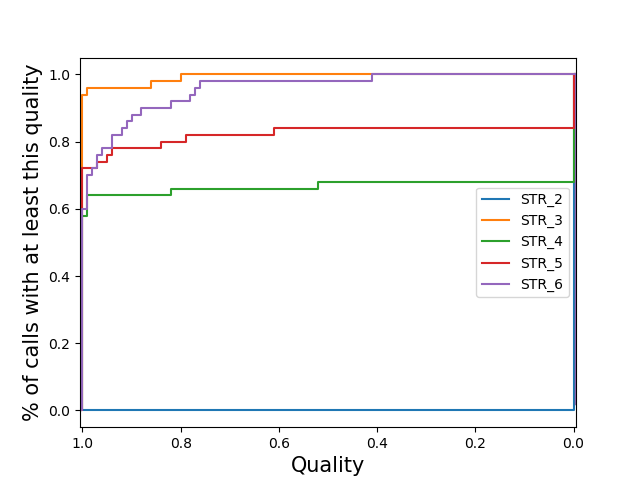
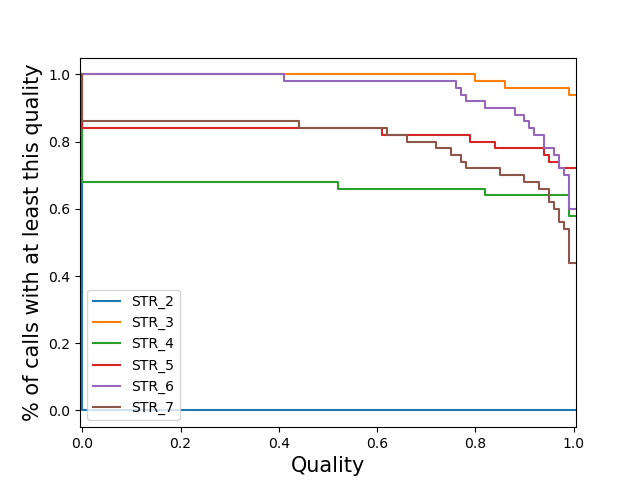
Change qcSTR from 1-0 increasing CDF to 0-1 decreasing CDF. Make printing flush appropriately so that its actually useful

diff --git a/trtools/qcSTR/qcSTR.py b/trtools/qcSTR/qcSTR.py
@@ -173,15 +173,40 @@ def OutputChromCallrate(chrom_calls, fname):
     plt.close()
 
 
-# from https://stackoverflow.com/a/39729964/2966505
-def _BetterReverseCDF(data: List[float],
-                      ax: matplotlib.axes.Axes):
-    # assumes that axes are already set to (max, min)
-    data = np.sort(data)[::-1]
-    x_axis_max, x_axis_min = ax.get_xlim()
-    data = np.hstack(([x_axis_max], data, [x_axis_min]))
-    ys = (np.hstack((np.arange(0, len(data) - 1), [1])) /
-          np.float(len(data) - 2))
+# original idea https://stackoverflow.com/a/39729964/2966505
+def _BetterCDF(data: List[float],
+               ax: matplotlib.axes.Axes):
+    # assumes that axes are already set to (min, max)
+    data = np.sort(data)
+    x_axis_min, x_axis_max = ax.get_xlim()
+    n_points = len(data)
+    has_quality_1_point = data[-1] == 1
+    if has_quality_1_point:
+        # don't print a drop off if the last data point(s)
+        # have quality 1
+        n_ones = sum(data == data[-1])
+        data = np.hstack((
+            [x_axis_min],
+            data[0:(len(data) - n_ones)],
+            [x_axis_max]
+        ))
+        ys = np.hstack((
+            [1],
+            np.arange(n_points - 1, n_ones - 1, -1) / np.float(n_points),
+            [n_ones / np.float(n_points)]
+        ))
+    else:
+        data = np.hstack((
+            [x_axis_min],
+            data,
+            [x_axis_max]
+        ))
+        ys = np.hstack((
+            [1],
+            np.arange(n_points - 1, -1, -1) / np.float(n_points),
+            [0]
+        ))
+    #ax.step(data, ys)#, where='post')
     ax.step(data, ys, where='post')
 
 
@@ -189,22 +214,24 @@ def _OutputQualityHist(
         data: Union[List[float], Dict[str, List[float]]],
         fname: str,
         dist_name: str):
+    #data is a List[float] if there is no stratification,
+    #Dict[str, List[float]] with startification
     spacing = 5e-3
     fig = plt.figure()
     ax = fig.add_subplot(111)
     if isinstance(data, list):
-        ax.set_xlim(max(data) + spacing, min(data) - spacing)
-        _BetterReverseCDF(data, ax)
+        ax.set_xlim(min(data) - spacing, max(data) + spacing)
+        _BetterCDF(data, ax)
     else: # assume dict
         max_val = 0.0
         min_val = 1.0
         for dist in data.values():
             max_val = max(max_val, max(dist))
             min_val = min(min_val, min(dist))
-        ax.set_xlim(max_val + spacing, min_val - spacing)
+        ax.set_xlim(min_val - spacing, max_val + spacing)
         names = []
         for name, dist in data.items():
-            _BetterReverseCDF(dist, ax)
+            _BetterCDF(dist, ax)
             names.append(name)
         ax.legend(names)
     ax.set_xlabel("Quality", size=15)
@@ -278,7 +305,7 @@ def OutputQualityLocusStrat(
 
     Parameters
     ----------
-    locus_strat_data: 
+    locus_strat_data:
         dict from locus ID to a list of the qualities of the calls for that
         locus.
     fname :
@@ -518,74 +545,90 @@ def main(args):
 
         numrecords += 1
 
-    print("Producing " + args.out + "-diffref-bias.pdf ... ", end='')
-    OutputDiffRefBias(diffs_from_ref, reflens, args.out + "-diffref-bias.pdf", \
+    print("Producing " + args.out + "-diffref-bias.png ... ", end='',
+          flush=True)
+    OutputDiffRefBias(diffs_from_ref, reflens, args.out + "-diffref-bias.png", \
                       xlim=(args.refbias_xrange_min, args.refbias_xrange_max), \
                       mingts=args.refbias_mingts, metric=args.refbias_metric, \
                       binsize=args.refbias_binsize)
     if len(samplelist) > 1:
-        print("Done.\nProducing " + args.out + "-sample-callnum.pdf ... ",
-              end='')
-        OutputSampleCallrate(sample_calls, args.out+"-sample-callnum.pdf")
+        print("Done.\nProducing " + args.out + "-sample-callnum.png ... ",
+              end='', flush=True)
+        OutputSampleCallrate(sample_calls, args.out+"-sample-callnum.png")
         print("Done.")
     else:
-        print("Done.\nOnly one sample, so skipping " + args.out + "-sample-callnum.pdf ...")
-    if 1 < len(list(chrom for chrom, value in chrom_calls.items() 
+        print("Done.\nOnly one sample, so skipping " + args.out + "-sample-callnum.png ...")
+    if 1 < len(list(chrom for chrom, value in chrom_calls.items()
                     if value > 0)):
-        print("Producing " + args.out + "-chrom-callnum.pdf ... ", end='')
-        OutputChromCallrate(chrom_calls, args.out+"-chrom-callnum.pdf")
+        print("Producing " + args.out + "-chrom-callnum.png ... ", end='',
+              flush=True)
+        OutputChromCallrate(chrom_calls, args.out+"-chrom-callnum.png")
         print("Done.\n", end='')
     else:
-        print("Only one chromosome, so skipping " + args.out + "-chrom-callnum.pdf ...")
-    print("Producing " + args.out + "-diffref-histogram.pdf ... ", end='')
-    OutputDiffRefHistogram(diffs_from_ref_unit, args.out + "-diffref-histogram.pdf")
+        print("Only one chromosome, so skipping " + args.out + "-chrom-callnum.png ...")
+    print("Producing " + args.out + "-diffref-histogram.png ... ", end='',
+          flush=True)
+    OutputDiffRefHistogram(diffs_from_ref_unit, args.out + "-diffref-histogram.png")
     print("Done.")
 
     if default_quality:
         def quality_output_loc(quality_value):
-            return args.out+"-quality.pdf"
+            return args.out+"-quality.png"
     else:
         def quality_output_loc(quality_value):
-            return args.out+"-quality-{}.pdf".format(quality_value)
+            return args.out+"-quality-{}.png".format(quality_value)
 
+    prior_qual_plot = False
     if _QualityTypes.per_sample.value in args.quality:
         print("Producing " +
               quality_output_loc(_QualityTypes.per_sample.value) +
-              " ... ", end='')
+              " ... ", end='', flush=True)
         new_per_sample_data = []
         for sample_data in per_sample_data.values():
             new_per_sample_data.append(stat.mean(sample_data))
         OutputQualityPerSample(new_per_sample_data,
                                quality_output_loc(_QualityTypes.per_sample.value))
+        prior_qual_plot = True
 
     if _QualityTypes.sample_stratified.value in args.quality:
+        if prior_qual_plot:
+            print("Done.")
         print("Producing " +
               quality_output_loc(_QualityTypes.sample_stratified.value) +
-              " ... ", end='')
+              " ... ", end='', flush=True)
         OutputQualitySampleStrat(sample_strat_data,
                                  quality_output_loc(_QualityTypes.sample_stratified.value))
+        prior_qual_plot = True
 
     if _QualityTypes.per_locus.value in args.quality:
+        if prior_qual_plot:
+            print("Done.")
         print("Producing " +
               quality_output_loc(_QualityTypes.per_locus.value) +
-              " ... ", end='')
+              " ... ", end='', flush=True)
         new_per_locus_data = []
         for locus_data in per_locus_data:
             new_per_locus_data.append(stat.mean(locus_data))
         OutputQualityPerLocus(new_per_locus_data,
                               quality_output_loc(_QualityTypes.per_locus.value))
+        prior_qual_plot = True
 
     if _QualityTypes.locus_stratified.value in args.quality:
+        if prior_qual_plot:
+            print("Done.")
         print("Producing " +
               quality_output_loc(_QualityTypes.locus_stratified.value) +
-              " ... ", end='')
+              " ... ", end='', flush=True)
         OutputQualityLocusStrat(locus_strat_data,
                                 quality_output_loc(_QualityTypes.locus_stratified.value))
+        prior_qual_plot = True
 
     if _QualityTypes.per_call.value in args.quality:
+        if prior_qual_plot:
+            print("Done.")
         print("Producing " +
               quality_output_loc(_QualityTypes.per_call.value) +
-              " ... ", end='')
+              " ... ", end='', flush=True)
         OutputQualityPerCall(per_call_data,
                              quality_output_loc(_QualityTypes.per_call.value))
 
